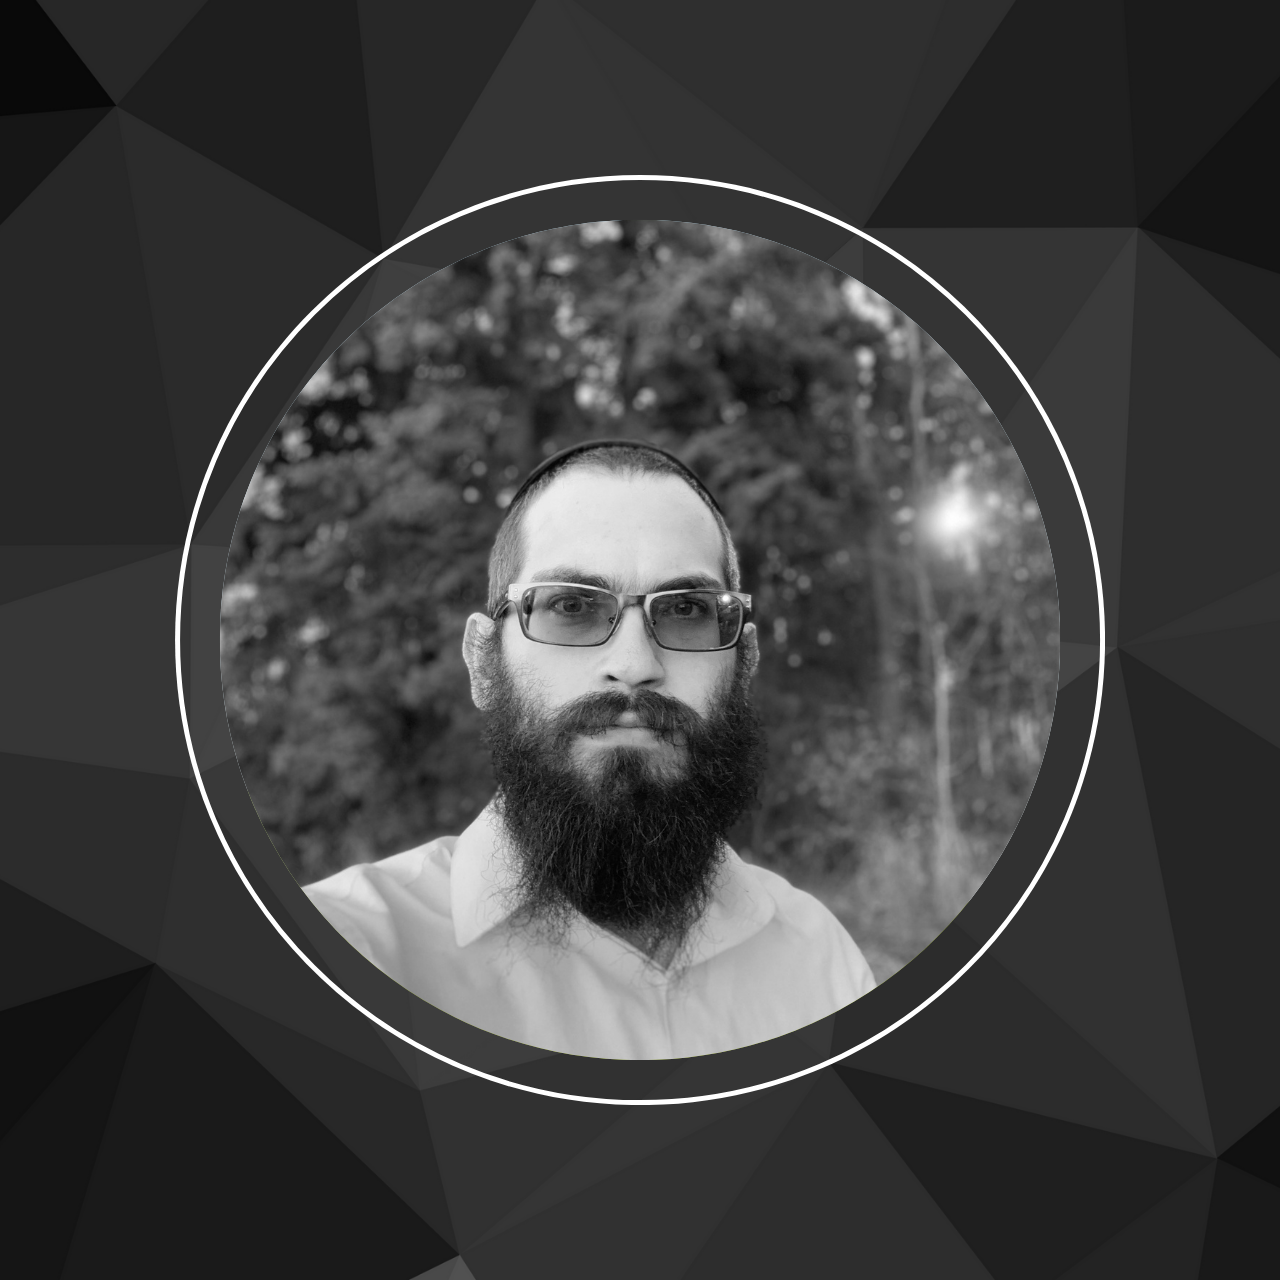
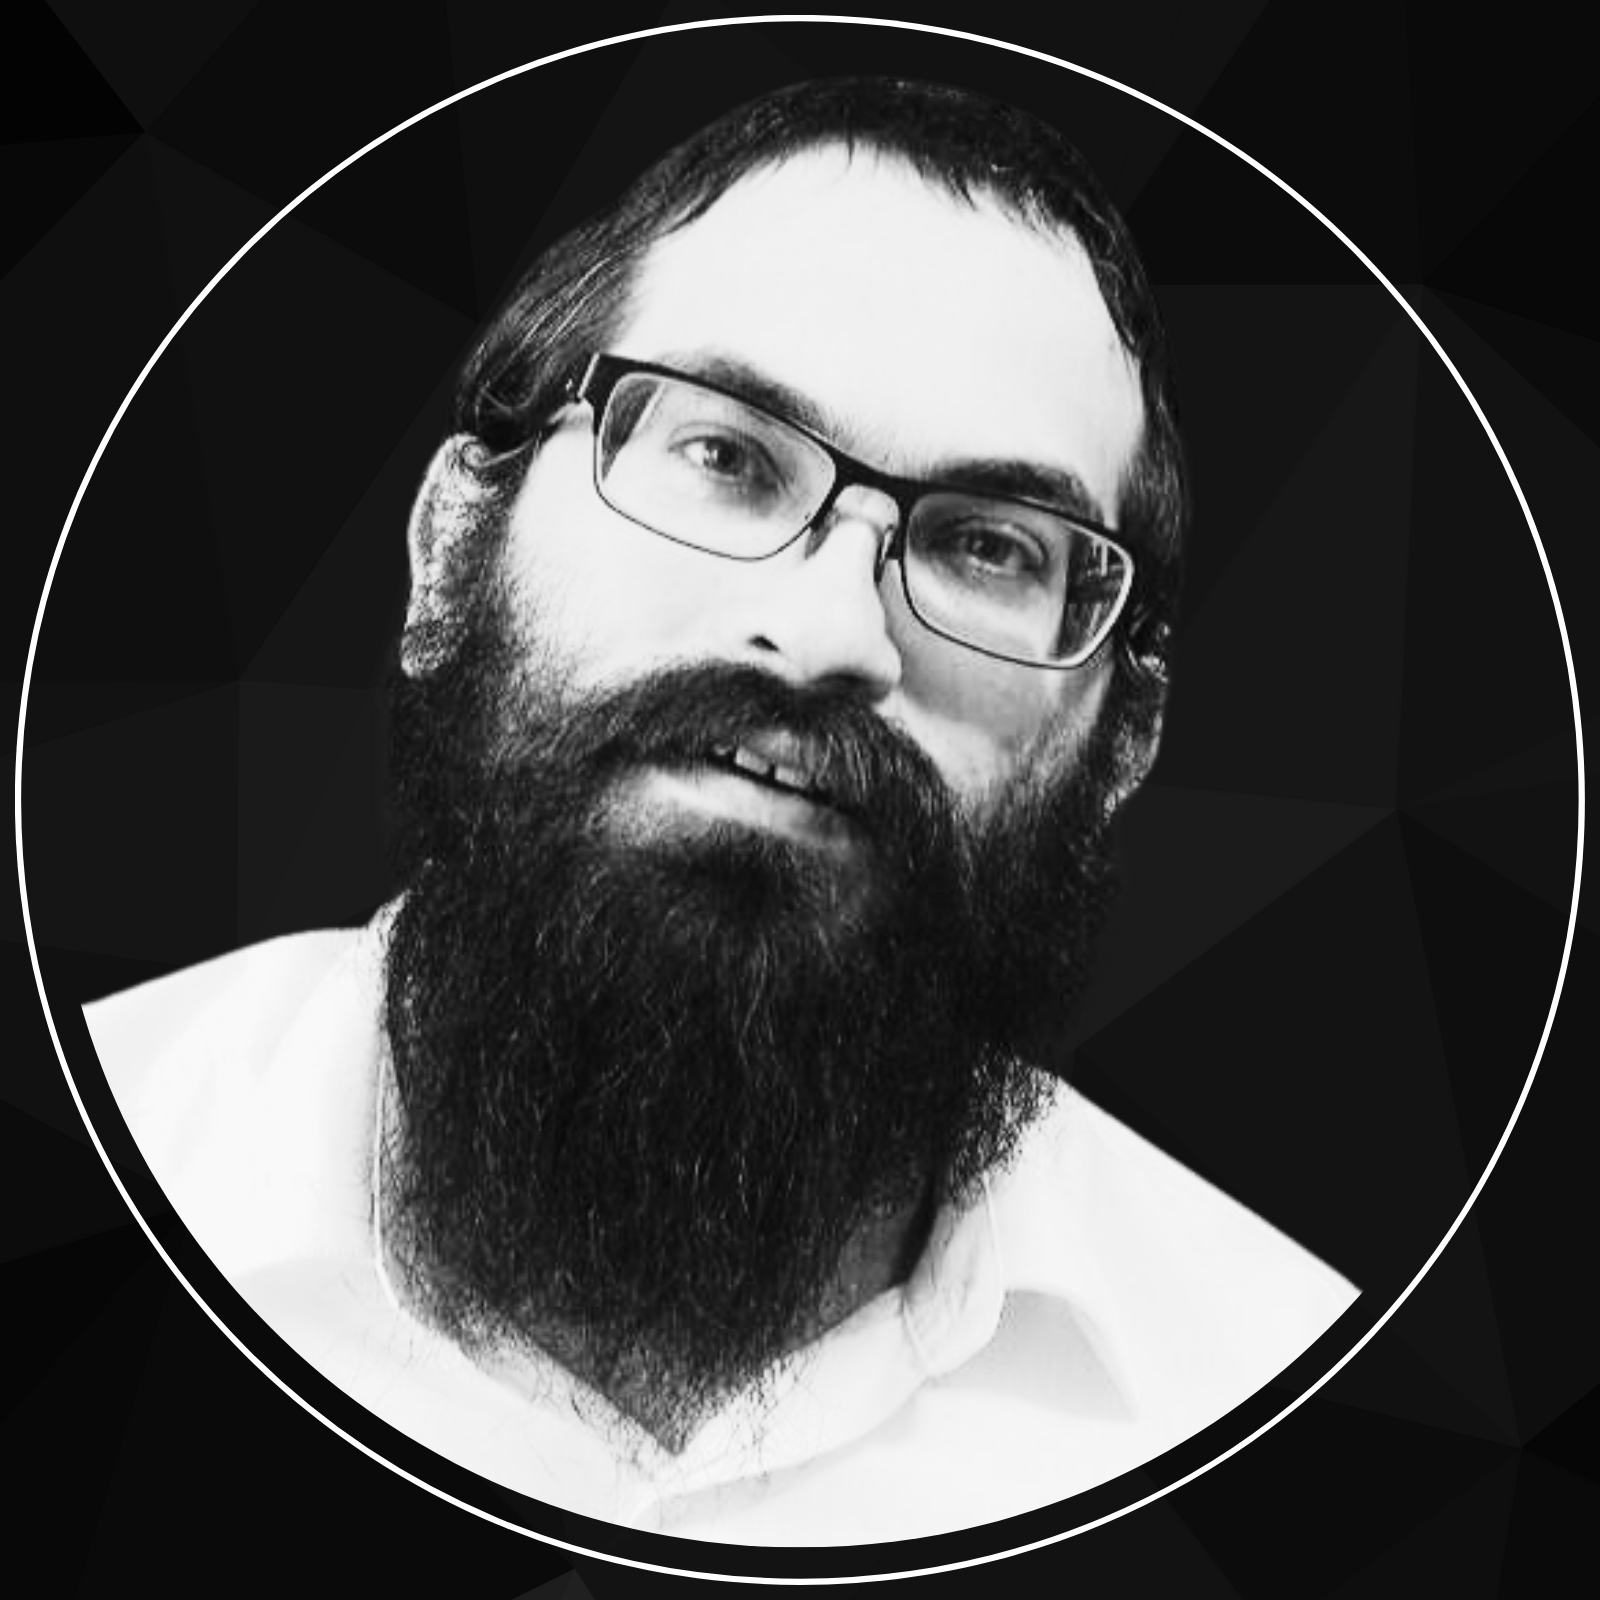
new profile photo

diff --git a/index.html b/index.html
@@ -1,21 +1,15 @@
 <!DOCTYPE html>
 <html lang="en">
-<link rel="manifest" href="/manifest.json">
-<script src="js/darkmode.js"></script>
-<script src="js/lazyload.js"></script>
-<script src="js/pushnotifications.js"></script>
-<script src="js/serviceworker.js"></script>
-<script src="js/mobilenav.js"></script>
-
-
 <head>
-  <title>Menachem Drelich. Portfolio</title>
-  <meta charset="utf8">
+  <meta charset="UTF-8">
   <meta name="viewport" content="width=device-width, initial-scale=1.0, maximum-scale=1.0, user-scalable=no">
+  <title>Menachem Drelich. Portfolio</title>
+
+  <link rel="manifest" href="/manifest.json">
   <link rel="stylesheet" href="css/font-awesome.css">
   <link rel="stylesheet" type="text/css" href="css/style.css">
+  <!-- Place JavaScript files here if they must be loaded in the head -->
 </head>
-
 <body>
 
   <div class="bg-circles">
@@ -37,6 +31,11 @@
 
 
 </body>
+<script src="js/darkmode.js"></script>
+<script src="js/lazyload.js"></script>
+<script src="js/pushnotifications.js"></script>
+<script src="js/serviceworker.js"></script>
+<script src="js/mobilenav.js"></script>
 <script>
   if ('serviceWorker' in navigator) {
     window.addEventListener('load', function () {
